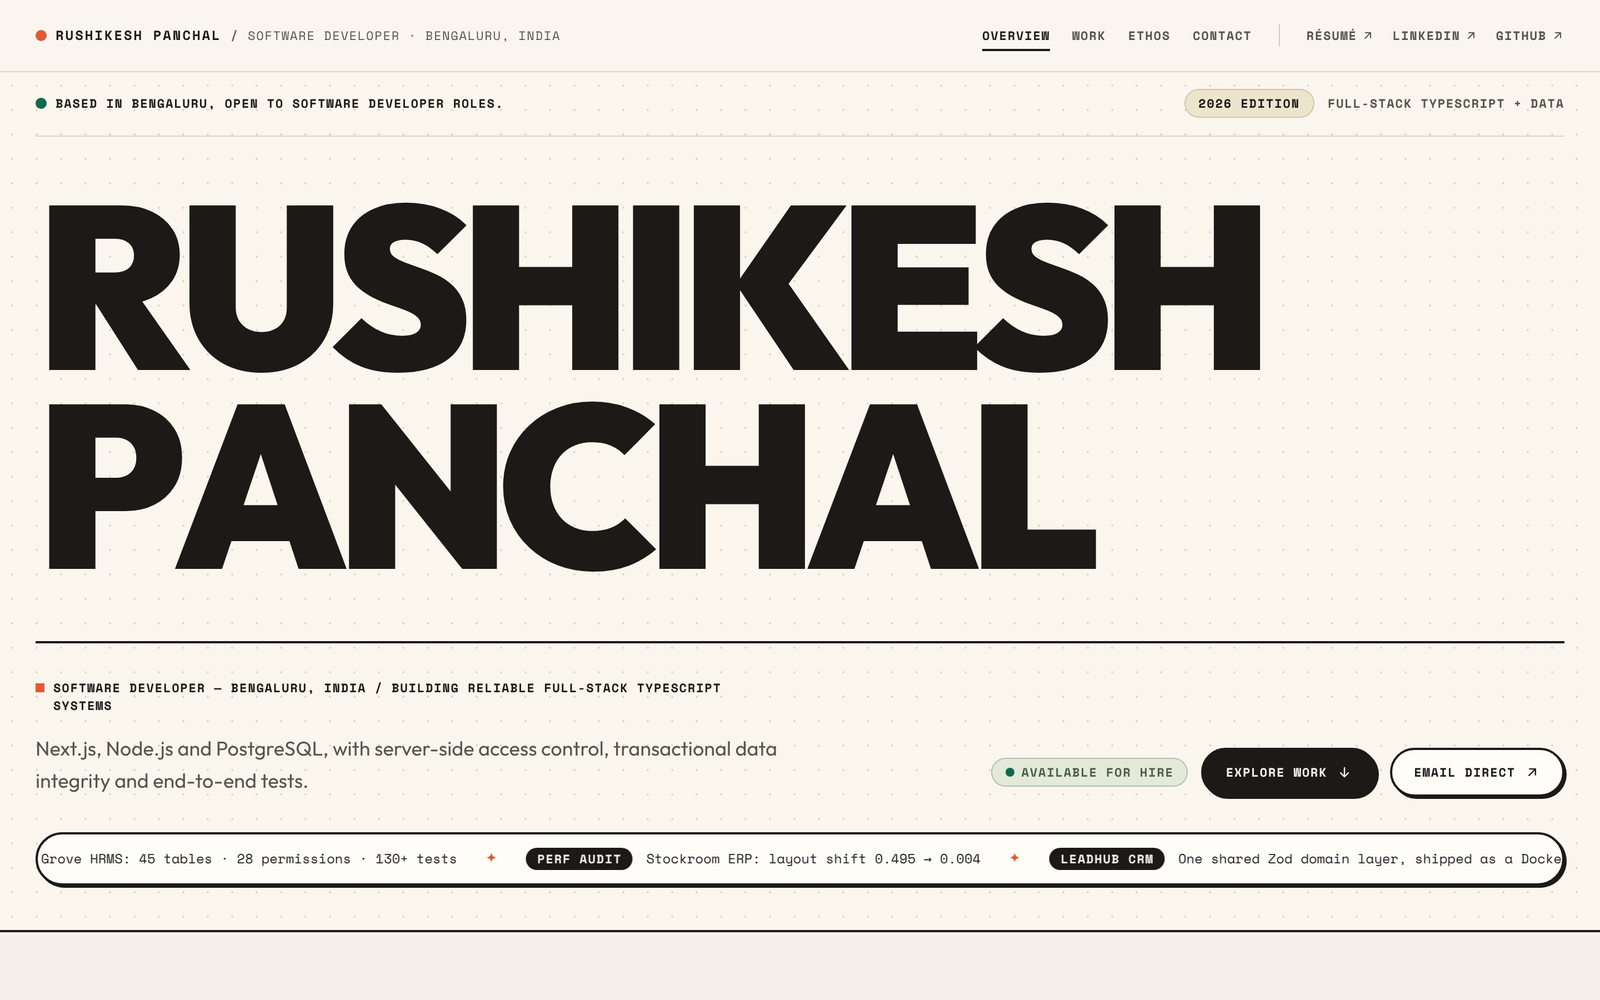
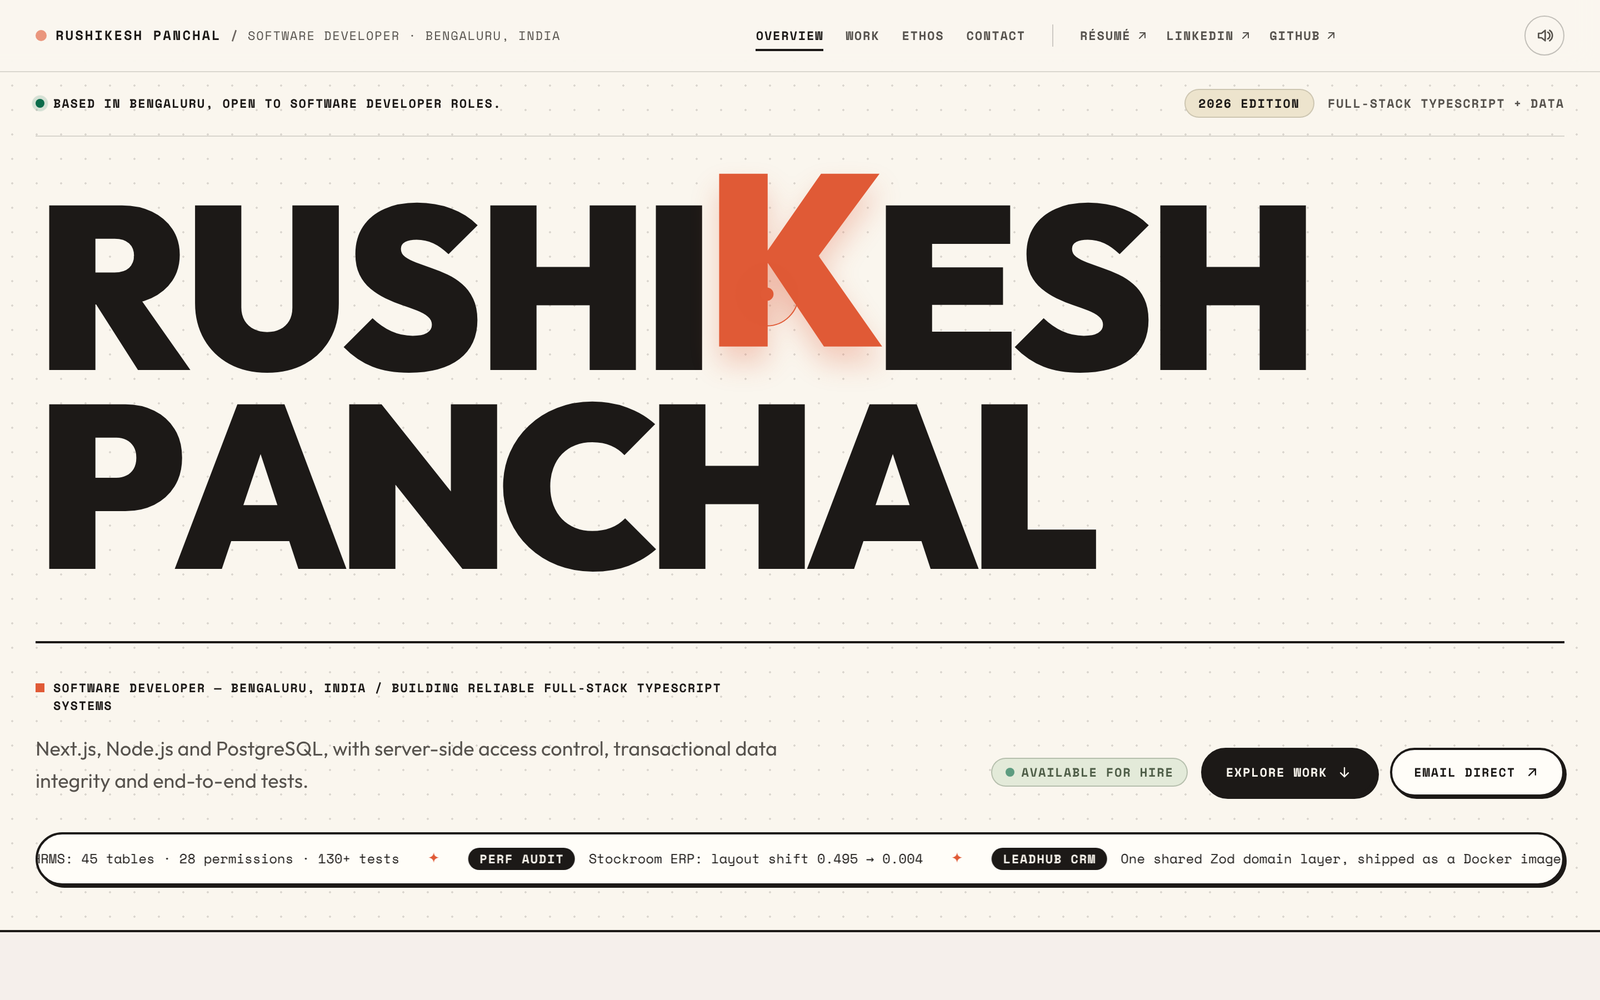
Refresh the README screenshots with the new animations (#8)
* Enable ECC Claude Code plugin at project scope

Adds the ECC marketplace and enables ecc@ecc (v2.2.3) via
npx ecc-universal@2.2.3 setup --scope project, so cloud sessions
on this repo load the plugin.

Claude-Session: https://claude.ai/code/session_012uxi6W5UYWaV5RtQvdCEGA

* Scaffold the static Next.js site, scripts and Pages CI

Next.js 16 static export under the /motionfolio base path, TypeScript strict,
Tailwind v4, ESLint (jsx-a11y strict), Prettier, Vitest and Playwright, mirroring
the main portfolio's tooling. The static server, JS budget (150 kB) and
Lighthouse gate are base-path aware. CI runs every check and deploys main to
GitHub Pages.

Claude-Session: https://claude.ai/code/session_012uxi6W5UYWaV5RtQvdCEGA

* Build the animated portfolio from the Stitch designs

One responsive page from the Stitch desktop and mobile exports: hero with
letter-rise name and ticker, work list with sticky inspector (tab strip on
phones), animated RBAC simulator, engineering ethos with an auto-tracing
write path, count-up metrics, experience and stack, and a contact funnel that
catches pings. Desktop top nav with scroll progress; bottom tab bar on phones.

All content derives from facts.ts copied from the main portfolio; claims the
mock-ups invented are dropped. Palette resolved for WCAG AA. Motion is CSS
first plus Motion's WAAPI animate, keeping / at 147.6 kB of JS. Content stays
visible without JavaScript and under reduced motion.
[…]

diff --git a/README.md b/README.md
@@ -38,19 +38,33 @@ export drives phones. Every section moves, and none of it needs JavaScript to be
 | **Contact**            | Click anywhere and a ping arcs into the funnel counter; copy the email address in one tap.                      |
 
 <p align="center">
-  <img src="docs/images/desktop-hero.png" alt="Desktop hero: the name RUSHIKESH PANCHAL in heavy black type over a dot grid, with Explore work and Email direct buttons and a scrolling ticker" width="100%" />
+  <img src="docs/images/desktop-hero.png" alt="Desktop hero: the name RUSHIKESH PANCHAL in heavy black type over a dot grid; the hovered K has sprung up in terracotta with a warm glow under the custom cursor ring" width="100%" />
+  <br />
+  <sub>Kinetic letters: hover any letter of the name and it springs up in terracotta, under the custom cursor.</sub>
 </p>
 
 <table>
   <tr>
-    <td width="62%"><img src="docs/images/desktop-work.png" alt="Desktop work section: the project list on the left and the Grove HRMS inspector panel with stats and the RBAC simulator on the right" /></td>
-    <td width="38%"><img src="docs/images/mobile.png" alt="Two phone screens: the hero, and the work section with a project tab strip and the bottom tab bar" /></td>
+    <td width="62%"><img src="docs/images/desktop-work.png" alt="Desktop work section: the project list and the Grove HRMS inspector, with a stat tile lifted under the cursor and a toast reading Directory as HR Admin" /></td>
+    <td width="38%"><img src="docs/images/mobile.png" alt="Two phone screens: the hero, and the work section with the CRM tab selected and a toast reading Viewing: LeadHub CRM above the bottom tab bar" /></td>
   </tr>
   <tr>
-    <td align="center"><sub>Desktop: work list and sticky inspector</sub></td>
-    <td align="center"><sub>Phone: hero, project tabs and bottom tab bar</sub></td>
+    <td align="center"><sub>Inspector, shimmer stat lift and a role-switch toast</sub></td>
+    <td align="center"><sub>Phone: hero, project tabs and a toast</sub></td>
+  </tr>
+  <tr>
+    <td colspan="2"><img src="docs/images/desktop-ethos.png" alt="Desktop How I work section: the middle principle card tilted in 3D toward the cursor, above the dark write-path panel tracing step 03 Permission check" /></td>
+  </tr>
+  <tr>
+    <td colspan="2" align="center"><sub>3D tilt cards that follow the cursor, and the write path tracing itself step by step</sub></td>
   </tr>
 </table>
+
+<p align="center">
+  <img src="docs/images/desktop-stack.png" alt="Tech stack: hovering the TypeScript tag shows a tooltip reading Used in Grove HRMS, LeadHub CRM, Stockroom ERP" width="100%" />
+  <br />
+  <sub>Tech-tag tooltips list the projects that use each skill, worked out from the facts.</sub>
+</p>
 
 ## ⚡ Quick start
 
